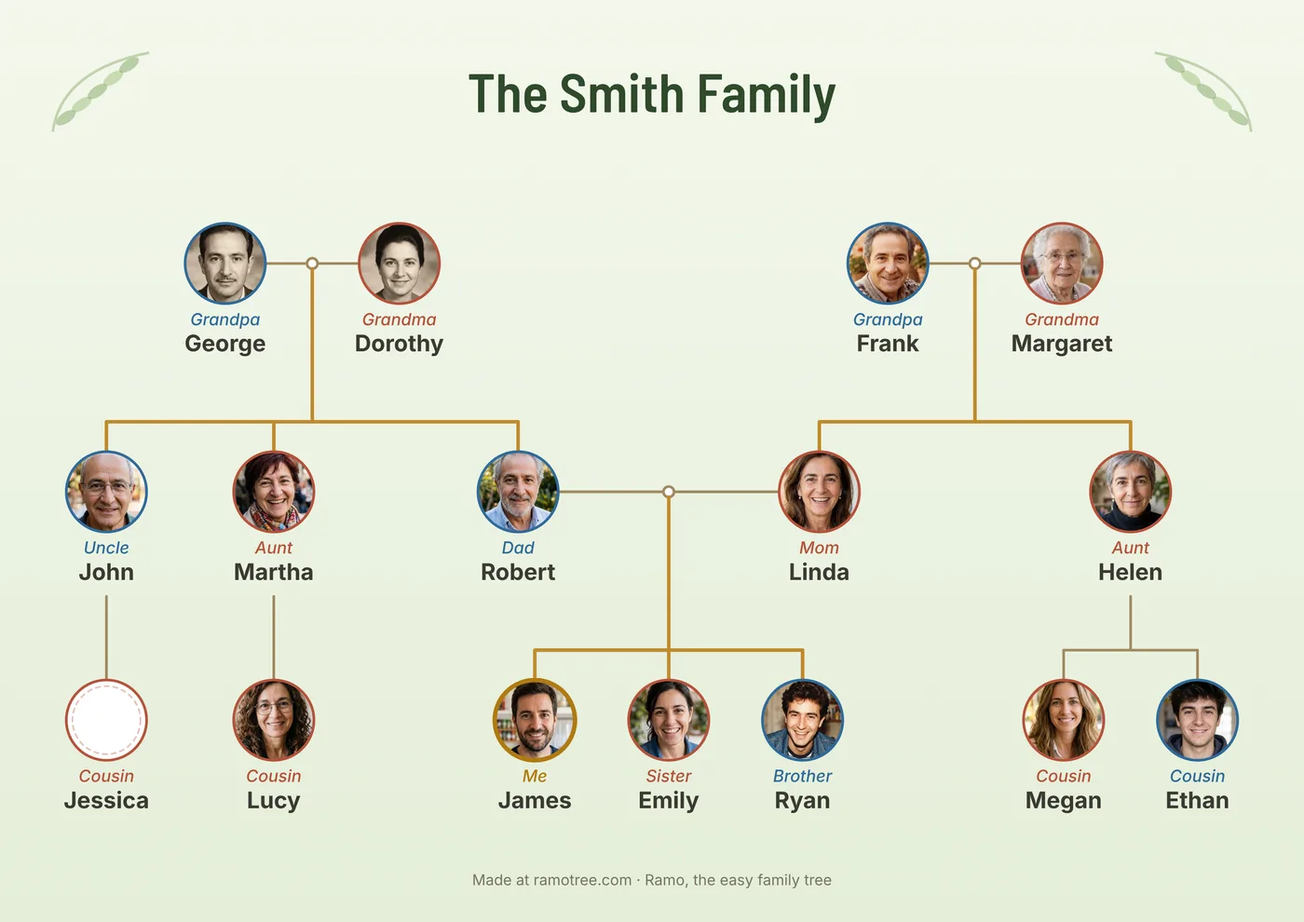
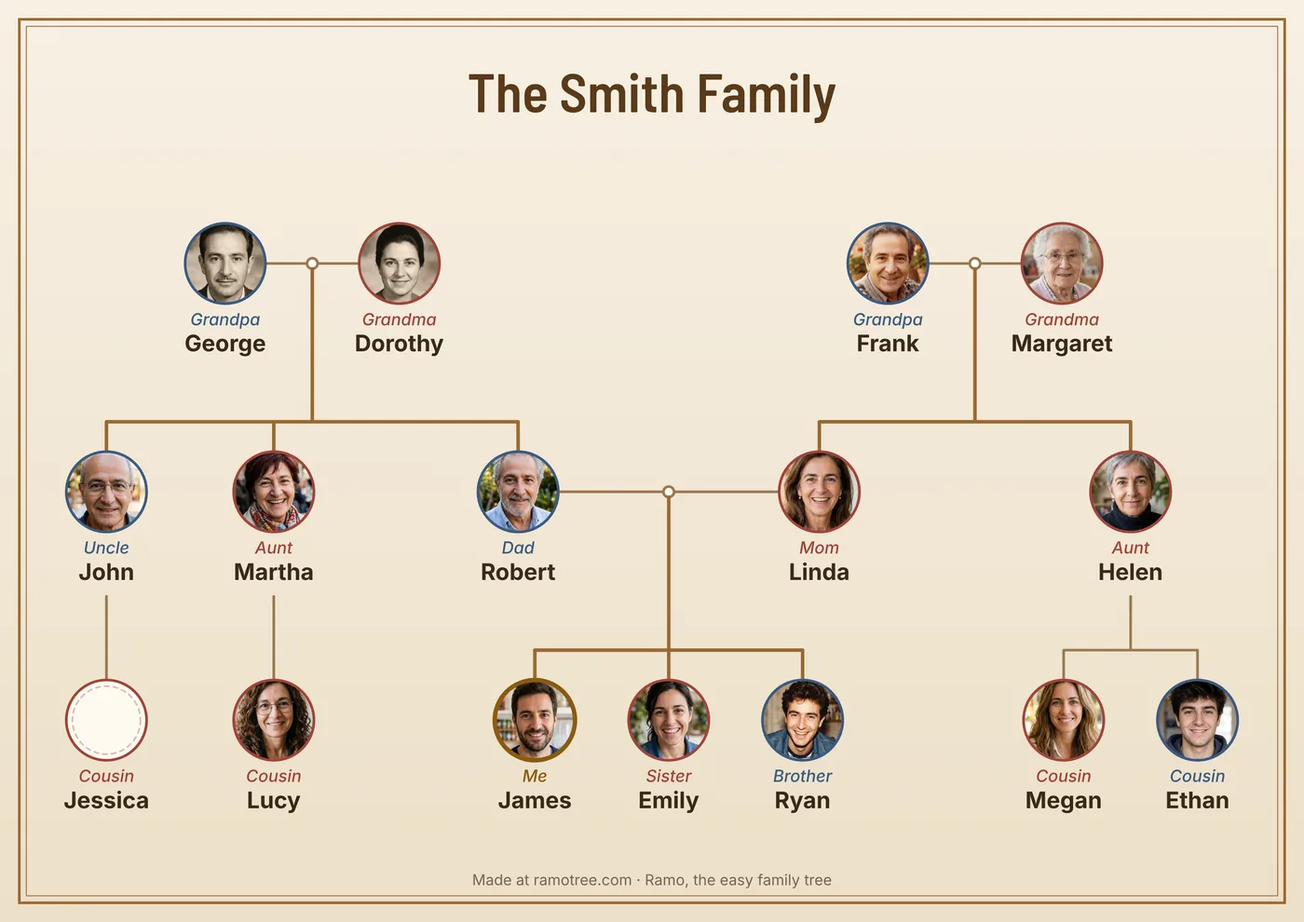
Guías: una imagen distinta para cada una
Claude-Session: https://claude.ai/code/session_01V21Rc2QJLpoacei9S9Cqnt

diff --git a/fr/arbre-genealogique-enfant/index.html b/fr/arbre-genealogique-enfant/index.html
@@ -31,7 +31,7 @@
 <link rel="apple-touch-icon" href="../../img/icono-192.png">
 <link rel="preload" href="../../fuentes/titulos.woff2" as="font" type="font/woff2" crossorigin>
 <link rel="stylesheet" href="../../estilo.css?v=83f1b3a0">
-<script type="application/ld+json">[{"@context": "https://schema.org", "@type": "Article", "headline": "Arbre généalogique pour enfants : comment le faire pour l'école", "description": "Comment faire avec votre enfant l'arbre généalogique demandé à l'école : modèle gratuit à imprimer, idées avec photos et dessins, et la famille en anglais.", "inLanguage": "fr", "datePublished": "2026-11-16", "dateModified": "2026-11-16", "image": "https://ramotree.com/img/fr/creador-colores.webp", "author": {"@type": "Organization", "name": "Ramo", "url": "https://ramotree.com/fr/"}, "publisher": {"@type": "Organization", "name": "Ramo", "logo": {"@type": "ImageObject", "url": "https://ramotree.com/img/icono-512.png"}}, "mainEntityOfPage": "https://ramotree.com/fr/arbre-genealogique-enfant/"}, {"@context": "https://schema.org", "@type": "BreadcrumbList", "itemListElement": [{"@type": "ListItem", "position": 1, "name": "Ramo", "item": "https://ramotree.com/fr/"}, {"@type": "ListItem", "position": 2, "name": "Arbre généalogique pour enfants", "item": "https://ramotree.com/fr/arbre-genealogique-enfant/"}]}]</script>
+<script type="application/ld+json">[{"@context": "https://schema.org", "@type": "Article", "headline": "Arbre généalogique pour enfants : comment le faire pour l'école", "description": "Comment faire avec votre enfant l'arbre généalogique demandé à l'école : modèle gratuit à imprimer, idées avec photos et dessins, et la famille en anglais.", "inLanguage": "fr", "datePublished": "2026-11-16", "dateModified": "2026-11-16", "image": "https://ramotree.com/img/fr/creador-ninos.webp", "author": {"@type": "Organization", "name": "Ramo", "url": "https://ramotree.com/fr/"}, "publisher": {"@type": "Organization", "name": "Ramo", "logo": {"@type": "ImageObject", "url": "https://ramotree.com/img/icono-512.png"}}, "mainEntityOfPage": "https://ramotree.com/fr/arbre-genealogique-enfant/"}, {"@context": "https://schema.org", "@type": "BreadcrumbList", "itemListElement": [{"@type": "ListItem", "position": 1, "name": "Ramo", "item": "https://ramotree.com/fr/"}, {"@type": "ListItem", "position": 2, "name": "Arbre généalogique pour enfants", "item": "https://ramotree.com/fr/arbre-genealogique-enfant/"}]}]</script>
 </head>
 <body>
 <header class="arriba">
@@ -48,7 +48,7 @@
 <p class="entrada">« Il faut apporter l'arbre généalogique demain. » Si ça vous dit quelque chose, voici un modèle gratuit à imprimer, des idées pour qu'il soit joli et comment le faire avec votre enfant sans stress.</p>
 <p class="consejo">C'est fait en quelques minutes : <a href="../../fr/creer-arbre-genealogique-en-ligne/">créez votre arbre ici</a>,
 avec les prénoms et les photos de chacun ou des places pour dessiner, et téléchargez-le pour l'imprimer.</p>
-<figure class="ancha"><img src="../../img/fr/creador-colores.webp" width="1400" height="990" alt="Arbre généalogique pour enfants fait avec le créateur de Ramo, style en couleurs" loading="lazy" decoding="async"><figcaption>Style « En couleurs », avec des places pour dessiner ceux qui n'ont pas de photo.</figcaption></figure>
+<figure class="ancha"><img src="../../img/fr/creador-ninos.webp" width="1400" height="990" alt="Arbre généalogique pour enfants fait avec le créateur de Ramo, style espace" loading="lazy" decoding="async"><figcaption>Style « Espace », avec des places pour dessiner ceux qui n'ont pas de photo.</figcaption></figure>
 
 <h2>Ce que l'école demande en général</h2>
 <p>En maternelle et en primaire, c'est souvent un arbre de trois générations : l'enfant, ses parents et ses grands-parents,

diff --git a/es/como-hacer-un-arbol-genealogico/index.html b/es/como-hacer-un-arbol-genealogico/index.html
@@ -31,7 +31,7 @@
 <link rel="apple-touch-icon" href="../../img/icono-192.png">
 <link rel="preload" href="../../fuentes/titulos.woff2" as="font" type="font/woff2" crossorigin>
 <link rel="stylesheet" href="../../estilo.css?v=83f1b3a0">
-<script type="application/ld+json">[{"@context": "https://schema.org", "@type": "Article", "headline": "Cómo hacer un árbol genealógico paso a paso", "description": "Cómo hacer el árbol genealógico de tu familia paso a paso: qué preguntar, dónde buscar los datos y cómo ordenarlo. Con plantilla gratis en PDF para imprimir.", "inLanguage": "es", "datePublished": "2026-11-16", "dateModified": "2026-11-16", "image": "https://ramotree.com/img/es/creador.webp", "author": {"@type": "Organization", "name": "Ramo", "url": "https://ramotree.com/es/"}, "publisher": {"@type": "Organization", "name": "Ramo", "logo": {"@type": "ImageObject", "url": "https://ramotree.com/img/icono-512.png"}}, "mainEntityOfPage": "https://ramotree.com/es/como-hacer-un-arbol-genealogico/"}, {"@context": "https://schema.org", "@type": "BreadcrumbList", "itemListElement": [{"@type": "ListItem", "position": 1, "name": "Ramo", "item": "https://ramotree.com/es/"}, {"@type": "ListItem", "position": 2, "name": "Cómo hacer un árbol genealógico", "item": "https://ramotree.com/es/como-hacer-un-arbol-genealogico/"}]}]</script>
+<script type="application/ld+json">[{"@context": "https://schema.org", "@type": "Article", "headline": "Cómo hacer un árbol genealógico paso a paso", "description": "Cómo hacer el árbol genealógico de tu familia paso a paso: qué preguntar, dónde buscar los datos y cómo ordenarlo. Con plantilla gratis en PDF para imprimir.", "inLanguage": "es", "datePublished": "2026-11-16", "dateModified": "2026-11-16", "image": "https://ramotree.com/img/es/hacer.webp", "author": {"@type": "Organization", "name": "Ramo", "url": "https://ramotree.com/es/"}, "publisher": {"@type": "Organization", "name": "Ramo", "logo": {"@type": "ImageObject", "url": "https://ramotree.com/img/icono-512.png"}}, "mainEntityOfPage": "https://ramotree.com/es/como-hacer-un-arbol-genealogico/"}, {"@context": "https://schema.org", "@type": "BreadcrumbList", "itemListElement": [{"@type": "ListItem", "position": 1, "name": "Ramo", "item": "https://ramotree.com/es/"}, {"@type": "ListItem", "position": 2, "name": "Cómo hacer un árbol genealógico", "item": "https://ramotree.com/es/como-hacer-un-arbol-genealogico/"}]}]</script>
 </head>
 <body>
 <header class="arriba">
@@ -48,7 +48,7 @@
 <p class="entrada">Hacer el árbol de tu familia es más fácil de lo que parece: empieza por lo que ya sabes, pregunta a los mayores mientras puedas y ve completándolo poco a poco. Aquí tienes los pasos y una plantilla gratis para imprimir.</p>
 <p class="consejo">¿Quieres empezar ya? <a href="../../es/plantilla-arbol-genealogico/">Crea tu árbol aquí mismo</a>: pon a tus
 abuelos, padres, tíos, primos y hermanos, con fotos si quieres, y descárgalo en PDF o como imagen.</p>
-<figure class="ancha"><img src="../../img/es/creador.webp" width="1400" height="990" alt="Árbol genealógico hecho con el creador de Ramo: abuelos, padres, tíos, primos y hermanos con sus fotos" loading="lazy" decoding="async"><figcaption>Hecho con el creador de árboles de esta web, en el estilo Jardín.</figcaption></figure>
+<figure class="ancha"><img src="../../img/es/creador.webp" width="1400" height="990" alt="Árbol genealógico hecho con el creador de Ramo: abuelos, padres, tíos, primos y hermanos con sus fotos" loading="lazy" decoding="async"><figcaption>Hecho con el creador de árboles de esta web, en el estilo Álbum.</figcaption></figure>
 
 <h2>1. Empieza por ti</h2>
 <p>Apunta tu nombre, cuándo y dónde naciste. Después, tus padres y tus hermanos, y luego tus abuelos. Escribe todo lo que

diff --git a/pt/arvore-genealogica-para-criancas/index.html b/pt/arvore-genealogica-para-criancas/index.html
@@ -31,7 +31,7 @@
 <link rel="apple-touch-icon" href="../../img/icono-192.png">
 <link rel="preload" href="../../fuentes/titulos.woff2" as="font" type="font/woff2" crossorigin>
 <link rel="stylesheet" href="../../estilo.css?v=83f1b3a0">
-<script type="application/ld+json">[{"@context": "https://schema.org", "@type": "Article", "headline": "Árvore genealógica para crianças: como fazer o trabalho da escola", "description": "Como fazer com seu filho a árvore genealógica que a escola pede: modelo grátis para imprimir, ideias com fotos e desenhos e a família em inglês.", "inLanguage": "pt-BR", "datePublished": "2026-11-16", "dateModified": "2026-11-16", "image": "https://ramotree.com/img/pt/creador-colores.webp", "author": {"@type": "Organization", "name": "Ramo", "url": "https://ramotree.com/pt/"}, "publisher": {"@type": "Organization", "name": "Ramo", "logo": {"@type": "ImageObject", "url": "https://ramotree.com/img/icono-512.png"}}, "mainEntityOfPage": "https://ramotree.com/pt/arvore-genealogica-para-criancas/"}, {"@context": "https://schema.org", "@type": "BreadcrumbList", "itemListElement": [{"@type": "ListItem", "position": 1, "name": "Ramo", "item": "https://ramotree.com/pt/"}, {"@type": "ListItem", "position": 2, "name": "Árvore genealógica para crianças", "item": "https://ramotree.com/pt/arvore-genealogica-para-criancas/"}]}]</script>
+<script type="application/ld+json">[{"@context": "https://schema.org", "@type": "Article", "headline": "Árvore genealógica para crianças: como fazer o trabalho da escola", "description": "Como fazer com seu filho a árvore genealógica que a escola pede: modelo grátis para imprimir, ideias com fotos e desenhos e a família em inglês.", "inLanguage": "pt-BR", "datePublished": "2026-11-16", "dateModified": "2026-11-16", "image": "https://ramotree.com/img/pt/creador-ninos.webp", "author": {"@type": "Organization", "name": "Ramo", "url": "https://ramotree.com/pt/"}, "publisher": {"@type": "Organization", "name": "Ramo", "logo": {"@type": "ImageObject", "url": "https://ramotree.com/img/icono-512.png"}}, "mainEntityOfPage": "https://ramotree.com/pt/arvore-genealogica-para-criancas/"}, {"@context": "https://schema.org", "@type": "BreadcrumbList", "itemListElement": [{"@type": "ListItem", "position": 1, "name": "Ramo", "item": "https://ramotree.com/pt/"}, {"@type": "ListItem", "position": 2, "name": "Árvore genealógica para crianças", "item": "https://ramotree.com/pt/arvore-genealogica-para-criancas/"}]}]</script>
 </head>
 <body>
 <header class="arriba">
@@ -48,7 +48,7 @@
 <p class="entrada">“Amanhã tem que levar a árvore genealógica.” Se isso soa familiar, aqui está um modelo grátis para imprimir, ideias para ficar bonita e como fazer com seu filho sem estresse.</p>
 <p class="consejo">Fica pronta em minutos: <a href="../../pt/criar-arvore-genealogica-online/">crie a árvore de vocês aqui</a>, com os
 nomes e as fotos de cada um ou com espaços para desenhar, e baixe para imprimir.</p>
-<figure class="ancha"><img src="../../img/pt/creador-colores.webp" width="1400" height="990" alt="Árvore genealógica para crianças feita com o criador do Ramo, no estilo colorido" loading="lazy" decoding="async"><figcaption>No estilo “Colorido”, com espaços para desenhar quem não tem foto.</figcaption></figure>
+<figure class="ancha"><img src="../../img/pt/creador-ninos.webp" width="1400" height="990" alt="Árvore genealógica para crianças feita com o criador do Ramo, no estilo espaço" loading="lazy" decoding="async"><figcaption>No estilo “Espaço”, com espaços para desenhar quem não tem foto.</figcaption></figure>
 
 <h2>O que a escola costuma pedir</h2>
 <p>Na educação infantil e nos primeiros anos, o normal é uma árvore de três gerações: a criança, os pais e os avós, com uma

diff --git a/pt/como-fazer-arvore-genealogica/index.html b/pt/como-fazer-arvore-genealogica/index.html
@@ -31,7 +31,7 @@
 <link rel="apple-touch-icon" href="../../img/icono-192.png">
 <link rel="preload" href="../../fuentes/titulos.woff2" as="font" type="font/woff2" crossorigin>
 <link rel="stylesheet" href="../../estilo.css?v=83f1b3a0">
-<script type="application/ld+json">[{"@context": "https://schema.org", "@type": "Article", "headline": "Como fazer uma árvore genealógica, passo a passo", "description": "Como fazer a árvore genealógica da sua família passo a passo: o que perguntar, onde procurar e como organizar. Com modelo grátis em PDF para imprimir.", "inLanguage": "pt-BR", "datePublished": "2026-11-16", "dateModified": "2026-11-16", "image": "https://ramotree.com/img/pt/creador.webp", "author": {"@type": "Organization", "name": "Ramo", "url": "https://ramotree.com/pt/"}, "publisher": {"@type": "Organization", "name": "Ramo", "logo": {"@type": "ImageObject", "url": "https://ramotree.com/img/icono-512.png"}}, "mainEntityOfPage": "https://ramotree.com/pt/como-fazer-arvore-genealogica/"}, {"@context": "https://schema.org", "@type": "BreadcrumbList", "itemListElement": [{"@type": "ListItem", "position": 1, "name": "Ramo", "item": "https://ramotree.com/pt/"}, {"@type": "ListItem", "position": 2, "name": "Como fazer uma árvore genealógica", "item": "https://ramotree.com/pt/como-fazer-arvore-genealogica/"}]}]</script>
+<script type="application/ld+json">[{"@context": "https://schema.org", "@type": "Article", "headline": "Como fazer uma árvore genealógica, passo a passo", "description": "Como fazer a árvore genealógica da sua família passo a passo: o que perguntar, onde procurar e como organizar. Com modelo grátis em PDF para imprimir.", "inLanguage": "pt-BR", "datePublished": "2026-11-16", "dateModified": "2026-11-16", "image": "https://ramotree.com/img/pt/hacer.webp", "author": {"@type": "Organization", "name": "Ramo", "url": "https://ramotree.com/pt/"}, "publisher": {"@type": "Organization", "name": "Ramo", "logo": {"@type": "ImageObject", "url": "https://ramotree.com/img/icono-512.png"}}, "mainEntityOfPage": "https://ramotree.com/pt/como-fazer-arvore-genealogica/"}, {"@context": "https://schema.org", "@type": "BreadcrumbList", "itemListElement": [{"@type": "ListItem", "position": 1, "name": "Ramo", "item": "https://ramotree.com/pt/"}, {"@type": "ListItem", "position": 2, "name": "Como fazer uma árvore genealógica", "item": "https://ramotree.com/pt/como-fazer-arvore-genealogica/"}]}]</script>
 </head>
 <body>
 <header class="arriba">
@@ -48,7 +48,7 @@
 <p class="entrada">Fazer a árvore da sua família é mais fácil do que parece: comece pelo que você já sabe, pergunte aos mais velhos enquanto pode e vá completando aos poucos. Aqui estão os passos e um modelo grátis para imprimir.</p>
 <p class="consejo">Quer começar agora? <a href="../../pt/criar-arvore-genealogica-online/">Crie sua árvore aqui mesmo</a>: avós, pais,
 tios, primos e irmãos, com fotos se quiser, e baixe em PDF ou como imagem.</p>
-<figure class="ancha"><img src="../../img/pt/creador.webp" width="1400" height="990" alt="Árvore genealógica feita com o criador de árvores do Ramo: avós, pais, tios, primos e irmãos com fotos" loading="lazy" decoding="async"><figcaption>Feita com o criador de árvores deste site, no estilo Jardim.</figcaption></figure>
+<figure class="ancha"><img src="../../img/pt/creador.webp" width="1400" height="990" alt="Árvore genealógica feita com o criador de árvores do Ramo: avós, pais, tios, primos e irmãos com fotos" loading="lazy" decoding="async"><figcaption>Feita com o criador de árvores deste site, no estilo Álbum.</figcaption></figure>
 
 <h2>1. Comece por você</h2>
 <p>Anote o seu nome, quando e onde você nasceu. Depois seus pais e irmãos, e então seus avós. Escreva tudo o que sabe de

diff --git a/de/stammbaum-erstellen/index.html b/de/stammbaum-erstellen/index.html
@@ -31,7 +31,7 @@
 <link rel="apple-touch-icon" href="../../img/icono-192.png">
 <link rel="preload" href="../../fuentes/titulos.woff2" as="font" type="font/woff2" crossorigin>
 <link rel="stylesheet" href="../../estilo.css?v=83f1b3a0">
-<script type="application/ld+json">[{"@context": "https://schema.org", "@type": "Article", "headline": "Stammbaum erstellen, Schritt für Schritt", "description": "So erstellst du den Stammbaum deiner Familie Schritt für Schritt: was du fragen solltest, wo du suchst und wie du ihn ordnest. Mit kostenloser Vorlage als PDF.", "inLanguage": "de", "datePublished": "2026-11-16", "dateModified": "2026-11-16", "image": "https://ramotree.com/img/de/creador.webp", "author": {"@type": "Organization", "name": "Ramo", "url": "https://ramotree.com/de/"}, "publisher": {"@type": "Organization", "name": "Ramo", "logo": {"@type": "ImageObject", "url": "https://ramotree.com/img/icono-512.png"}}, "mainEntityOfPage": "https://ramotree.com/de/stammbaum-erstellen/"}, {"@context": "https://schema.org", "@type": "BreadcrumbList", "itemListElement": [{"@type": "ListItem", "position": 1, "name": "Ramo", "item": "https://ramotree.com/de/"}, {"@type": "ListItem", "position": 2, "name": "Stammbaum erstellen", "item": "https://ramotree.com/de/stammbaum-erstellen/"}]}]</script>
+<script type="application/ld+json">[{"@context": "https://schema.org", "@type": "Article", "headline": "Stammbaum erstellen, Schritt für Schritt", "description": "So erstellst du den Stammbaum deiner Familie Schritt für Schritt: was du fragen solltest, wo du suchst und wie du ihn ordnest. Mit kostenloser Vorlage als PDF.", "inLanguage": "de", "datePublished": "2026-11-16", "dateModified": "2026-11-16", "image": "https://ramotree.com/img/de/hacer.webp", "author": {"@type": "Organization", "name": "Ramo", "url": "https://ramotree.com/de/"}, "publisher": {"@type": "Organization", "name": "Ramo", "logo": {"@type": "ImageObject", "url": "https://ramotree.com/img/icono-512.png"}}, "mainEntityOfPage": "https://ramotree.com/de/stammbaum-erstellen/"}, {"@context": "https://schema.org", "@type": "BreadcrumbList", "itemListElement": [{"@type": "ListItem", "position": 1, "name": "Ramo", "item": "https://ramotree.com/de/"}, {"@type": "ListItem", "position": 2, "name": "Stammbaum erstellen", "item": "https://ramotree.com/de/stammbaum-erstellen/"}]}]</script>
 </head>
 <body>
 <header class="arriba">
@@ -48,7 +48,7 @@
 <p class="entrada">Einen Stammbaum zu erstellen ist leichter, als es aussieht: Fang mit dem an, was du schon weißt, frag die Älteren, solange es geht, und ergänze ihn nach und nach. Hier sind die Schritte und eine kostenlose Vorlage zum Ausdrucken.</p>
 <p class="consejo">Willst du gleich anfangen? <a href="../../de/stammbaum-online-erstellen/">Erstelle deinen Stammbaum direkt
 hier</a>: Großeltern, Eltern, Onkel, Cousins und Geschwister, auf Wunsch mit Fotos, und lade ihn als PDF oder Bild herunter.</p>
-<figure class="ancha"><img src="../../img/de/creador.webp" width="1400" height="990" alt="Stammbaum, erstellt mit dem Stammbaum-Ersteller von Ramo: Großeltern, Eltern, Onkel, Cousins und Geschwister mit Fotos" loading="lazy" decoding="async"><figcaption>Erstellt mit dem Stammbaum-Ersteller dieser Seite, im Stil Garten.</figcaption></figure>
+<figure class="ancha"><img src="../../img/de/creador.webp" width="1400" height="990" alt="Stammbaum, erstellt mit dem Stammbaum-Ersteller von Ramo: Großeltern, Eltern, Onkel, Cousins und Geschwister mit Fotos" loading="lazy" decoding="async"><figcaption>Erstellt mit dem Stammbaum-Ersteller dieser Seite, im Stil Album.</figcaption></figure>
 
 <h2>1. Fang bei dir an</h2>
 <p>Schreib deinen Namen auf und wann und wo du geboren bist. Dann deine Eltern und Geschwister, danach deine Großeltern.

diff --git a/es/arbol-genealogico-para-ninos/index.html b/es/arbol-genealogico-para-ninos/index.html
@@ -31,7 +31,7 @@
 <link rel="apple-touch-icon" href="../../img/icono-192.png">
 <link rel="preload" href="../../fuentes/titulos.woff2" as="font" type="font/woff2" crossorigin>
 <link rel="stylesheet" href="../../estilo.css?v=83f1b3a0">
-<script type="application/ld+json">[{"@context": "https://schema.org", "@type": "Article", "headline": "Árbol genealógico para niños: cómo hacerlo para el colegio", "description": "Cómo hacer con tu hijo el árbol genealógico que piden en el colegio: plantilla gratis para imprimir, ideas con fotos y dibujos, y la familia en inglés.", "inLanguage": "es", "datePublished": "2026-11-16", "dateModified": "2026-11-16", "image": "https://ramotree.com/img/es/creador-colores.webp", "author": {"@type": "Organization", "name": "Ramo", "url": "https://ramotree.com/es/"}, "publisher": {"@type": "Organization", "name": "Ramo", "logo": {"@type": "ImageObject", "url": "https://ramotree.com/img/icono-512.png"}}, "mainEntityOfPage": "https://ramotree.com/es/arbol-genealogico-para-ninos/"}, {"@context": "https://schema.org", "@type": "BreadcrumbList", "itemListElement": [{"@type": "ListItem", "position": 1, "name": "Ramo", "item": "https://ramotree.com/es/"}, {"@type": "ListItem", "position": 2, "name": "Árbol genealógico para niños", "item": "https://ramotree.com/es/arbol-genealogico-para-ninos/"}]}]</script>
+<script type="application/ld+json">[{"@context": "https://schema.org", "@type": "Article", "headline": "Árbol genealógico para niños: cómo hacerlo para el colegio", "description": "Cómo hacer con tu hijo el árbol genealógico que piden en el colegio: plantilla gratis para imprimir, ideas con fotos y dibujos, y la familia en inglés.", "inLanguage": "es", "datePublished": "2026-11-16", "dateModified": "2026-11-16", "image": "https://ramotree.com/img/es/creador-ninos.webp", "author": {"@type": "Organization", "name": "Ramo", "url": "https://ramotree.com/es/"}, "publisher": {"@type": "Organization", "name": "Ramo", "logo": {"@type": "ImageObject", "url": "https://ramotree.com/img/icono-512.png"}}, "mainEntityOfPage": "https://ramotree.com/es/arbol-genealogico-para-ninos/"}, {"@context": "https://schema.org", "@type": "BreadcrumbList", "itemListElement": [{"@type": "ListItem", "position": 1, "name": "Ramo", "item": "https://ramotree.com/es/"}, {"@type": "ListItem", "position": 2, "name": "Árbol genealógico para niños", "item": "https://ramotree.com/es/arbol-genealogico-para-ninos/"}]}]</script>
 </head>
 <body>
 <header class="arriba">
@@ -48,7 +48,7 @@
 <p class="entrada">«Mañana hay que llevar el árbol genealógico.» Si te suena, aquí tienes una plantilla gratis para imprimir, ideas para que quede bonito y cómo hacerlo con tu hijo sin agobios.</p>
 <p class="consejo">Hazlo en un momento: <a href="../../es/plantilla-arbol-genealogico/">crea vuestro árbol aquí</a>, con los
 nombres y las fotos de cada uno o con huecos para dibujar, y descárgalo para imprimir.</p>
-<figure class="ancha"><img src="../../img/es/creador-colores.webp" width="1400" height="990" alt="Árbol genealógico para niños hecho con el creador de Ramo, en el estilo de colores" loading="lazy" decoding="async"><figcaption>En el estilo «De colores», con huecos para dibujar a quien no tenga foto.</figcaption></figure>
+<figure class="ancha"><img src="../../img/es/creador-ninos.webp" width="1400" height="990" alt="Árbol genealógico para niños hecho con el creador de Ramo, en el estilo del espacio" loading="lazy" decoding="async"><figcaption>En el estilo «Espacio», con huecos para dibujar a quien no tenga foto.</figcaption></figure>
 
 <h2>Qué suelen pedir en el colegio</h2>
 <p>En infantil y primaria lo normal es un árbol de tres generaciones: el niño, sus padres y sus abuelos, con una foto o un

diff --git a/it/come-fare-albero-genealogico/index.html b/it/come-fare-albero-genealogico/index.html
@@ -31,7 +31,7 @@
 <link rel="apple-touch-icon" href="../../img/icono-192.png">
 <link rel="preload" href="../../fuentes/titulos.woff2" as="font" type="font/woff2" crossorigin>
 <link rel="stylesheet" href="../../estilo.css?v=83f1b3a0">
-<script type="application/ld+json">[{"@context": "https://schema.org", "@type": "Article", "headline": "Come fare un albero genealogico, passo dopo passo", "description": "Come fare l'albero genealogico della tua famiglia passo dopo passo: cosa chiedere, dove cercare e come ordinarlo. Con un modello gratis da stampare in PDF.", "inLanguage": "it", "datePublished": "2026-11-16", "dateModified": "2026-11-16", "image": "https://ramotree.com/img/it/creador.webp", "author": {"@type": "Organization", "name": "Ramo", "url": "https://ramotree.com/it/"}, "publisher": {"@type": "Organization", "name": "Ramo", "logo": {"@type": "ImageObject", "url": "https://ramotree.com/img/icono-512.png"}}, "mainEntityOfPage": "https://ramotree.com/it/come-fare-albero-genealogico/"}, {"@context": "https://schema.org", "@type": "BreadcrumbList", "itemListElement": [{"@type": "ListItem", "position": 1, "name": "Ramo", "item": "https://ramotree.com/it/"}, {"@type": "ListItem", "position": 2, "name": "Come fare un albero genealogico", "item": "https://ramotree.com/it/come-fare-albero-genealogico/"}]}]</script>
+<script type="application/ld+json">[{"@context": "https://schema.org", "@type": "Article", "headline": "Come fare un albero genealogico, passo dopo passo", "description": "Come fare l'albero genealogico della tua famiglia passo dopo passo: cosa chiedere, dove cercare e come ordinarlo. Con un modello gratis da stampare in PDF.", "inLanguage": "it", "datePublished": "2026-11-16", "dateModified": "2026-11-16", "image": "https://ramotree.com/img/it/hacer.webp", "author": {"@type": "Organization", "name": "Ramo", "url": "https://ramotree.com/it/"}, "publisher": {"@type": "Organization", "name": "Ramo", "logo": {"@type": "ImageObject", "url": "https://ramotree.com/img/icono-512.png"}}, "mainEntityOfPage": "https://ramotree.com/it/come-fare-albero-genealogico/"}, {"@context": "https://schema.org", "@type": "BreadcrumbList", "itemListElement": [{"@type": "ListItem", "position": 1, "name": "Ramo", "item": "https://ramotree.com/it/"}, {"@type": "ListItem", "position": 2, "name": "Come fare un albero genealogico", "item": "https://ramotree.com/it/come-fare-albero-genealogico/"}]}]</script>
 </head>
 <body>
 <header class="arriba">
@@ -48,7 +48,7 @@
 <p class="entrada">Fare l'albero della tua famiglia è più facile di quanto sembri: parti da quello che sai già, chiedi ai più anziani finché puoi e completalo un po' alla volta. Ecco i passi e un modello gratis da stampare.</p>
 <p class="consejo">Vuoi iniziare subito? <a href="../../it/crea-albero-genealogico-online/">Crea il tuo albero qui</a>: nonni,
 genitori, zii, cugini e fratelli, con le foto se vuoi, e scaricalo in PDF o come immagine.</p>
-<figure class="ancha"><img src="../../img/it/creador.webp" width="1400" height="990" alt="Albero genealogico fatto con il creatore di alberi di Ramo: nonni, genitori, zii, cugini e fratelli con le foto" loading="lazy" decoding="async"><figcaption>Fatto con il creatore di alberi di questo sito, stile Giardino.</figcaption></figure>
+<figure class="ancha"><img src="../../img/it/creador.webp" width="1400" height="990" alt="Albero genealogico fatto con il creatore di alberi di Ramo: nonni, genitori, zii, cugini e fratelli con le foto" loading="lazy" decoding="async"><figcaption>Fatto con il creatore di alberi di questo sito, stile Album.</figcaption></figure>
 
 <h2>1. Parti da te</h2>
 <p>Scrivi il tuo nome, quando e dove sei nato. Poi i tuoi genitori e i tuoi fratelli, e poi i nonni. Annota tutto quello che

diff --git a/en/how-to-make-a-family-tree/index.html b/en/how-to-make-a-family-tree/index.html
@@ -31,7 +31,7 @@
 <link rel="apple-touch-icon" href="../../img/icono-192.png">
 <link rel="preload" href="../../fuentes/titulos.woff2" as="font" type="font/woff2" crossorigin>
 <link rel="stylesheet" href="../../estilo.css?v=83f1b3a0">
-<script type="application/ld+json">[{"@context": "https://schema.org", "@type": "Article", "headline": "How to make a family tree, step by step", "description": "How to make your family tree step by step: what to ask, where to find records and how to organize it. With a free printable PDF family tree template.", "inLanguage": "en", "datePublished": "2026-11-16", "dateModified": "2026-11-16", "image": "https://ramotree.com/img/en/creador.webp", "author": {"@type": "Organization", "name": "Ramo", "url": "https://ramotree.com/en/"}, "publisher": {"@type": "Organization", "name": "Ramo", "logo": {"@type": "ImageObject", "url": "https://ramotree.com/img/icono-512.png"}}, "mainEntityOfPage": "https://ramotree.com/en/how-to-make-a-family-tree/"}, {"@context": "https://schema.org", "@type": "BreadcrumbList", "itemListElement": [{"@type": "ListItem", "position": 1, "name": "Ramo", "item": "https://ramotree.com/en/"}, {"@type": "ListItem", "position": 2, "name": "How to make a family tree", "item": "https://ramotree.com/en/how-to-make-a-family-tree/"}]}]</script>
+<script type="application/ld+json">[{"@context": "https://schema.org", "@type": "Article", "headline": "How to make a family tree, step by step", "description": "How to make your family tree step by step: what to ask, where to find records and how to organize it. With a free printable PDF family tree template.", "inLanguage": "en", "datePublished": "2026-11-16", "dateModified": "2026-11-16", "image": "https://ramotree.com/img/en/hacer.webp", "author": {"@type": "Organization", "name": "Ramo", "url": "https://ramotree.com/en/"}, "publisher": {"@type": "Organization", "name": "Ramo", "logo": {"@type": "ImageObject", "url": "https://ramotree.com/img/icono-512.png"}}, "mainEntityOfPage": "https://ramotree.com/en/how-to-make-a-family-tree/"}, {"@context": "https://schema.org", "@type": "BreadcrumbList", "itemListElement": [{"@type": "ListItem", "position": 1, "name": "Ramo", "item": "https://ramotree.com/en/"}, {"@type": "ListItem", "position": 2, "name": "How to make a family tree", "item": "https://ramotree.com/en/how-to-make-a-family-tree/"}]}]</script>
 </head>
 <body>
 <header class="arriba">
@@ -48,7 +48,7 @@
 <p class="entrada">Making your family tree is easier than it looks: start with what you already know, ask the older generation while you can, and fill it in bit by bit. Here are the steps and a free template to print.</p>
 <p class="consejo">Want to start right away? <a href="../../en/family-tree-maker/">Make your tree right here</a>: add your
 grandparents, parents, aunts, uncles, cousins and siblings, with photos if you like, and download it as a PDF or image.</p>
-<figure class="ancha"><img src="../../img/en/creador.webp" width="1400" height="990" alt="Family tree made with Ramo&#x27;s family tree maker: grandparents, parents, aunts, uncles, cousins and siblings with photos" loading="lazy" decoding="async"><figcaption>Made with the family tree maker on this site, in the Garden style.</figcaption></figure>
+<figure class="ancha"><img src="../../img/en/creador.webp" width="1400" height="990" alt="Family tree made with Ramo&#x27;s family tree maker: grandparents, parents, aunts, uncles, cousins and siblings with photos" loading="lazy" decoding="async"><figcaption>Made with the family tree maker on this site, in the Album style.</figcaption></figure>
 
 <h2>1. Start with yourself</h2>
 <p>Write down your name and when and where you were born. Then your parents and siblings, and then your grandparents. Put

diff --git a/fr/comment-faire-un-arbre-genealogique/index.html b/fr/comment-faire-un-arbre-genealogique/index.html
@@ -31,7 +31,7 @@
 <link rel="apple-touch-icon" href="../../img/icono-192.png">
 <link rel="preload" href="../../fuentes/titulos.woff2" as="font" type="font/woff2" crossorigin>
 <link rel="stylesheet" href="../../estilo.css?v=83f1b3a0">
-<script type="application/ld+json">[{"@context": "https://schema.org", "@type": "Article", "headline": "Comment faire un arbre généalogique, étape par étape", "description": "Comment faire l'arbre généalogique de votre famille étape par étape : quoi demander, où chercher et comment l'organiser. Avec un modèle gratuit à imprimer en PDF.", "inLanguage": "fr", "datePublished": "2026-11-16", "dateModified": "2026-11-16", "image": "https://ramotree.com/img/fr/creador.webp", "author": {"@type": "Organization", "name": "Ramo", "url": "https://ramotree.com/fr/"}, "publisher": {"@type": "Organization", "name": "Ramo", "logo": {"@type": "ImageObject", "url": "https://ramotree.com/img/icono-512.png"}}, "mainEntityOfPage": "https://ramotree.com/fr/comment-faire-un-arbre-genealogique/"}, {"@context": "https://schema.org", "@type": "BreadcrumbList", "itemListElement": [{"@type": "ListItem", "position": 1, "name": "Ramo", "item": "https://ramotree.com/fr/"}, {"@type": "ListItem", "position": 2, "name": "Faire un arbre généalogique", "item": "https://ramotree.com/fr/comment-faire-un-arbre-genealogique/"}]}]</script>
+<script type="application/ld+json">[{"@context": "https://schema.org", "@type": "Article", "headline": "Comment faire un arbre généalogique, étape par étape", "description": "Comment faire l'arbre généalogique de votre famille étape par étape : quoi demander, où chercher et comment l'organiser. Avec un modèle gratuit à imprimer en PDF.", "inLanguage": "fr", "datePublished": "2026-11-16", "dateModified": "2026-11-16", "image": "https://ramotree.com/img/fr/hacer.webp", "author": {"@type": "Organization", "name": "Ramo", "url": "https://ramotree.com/fr/"}, "publisher": {"@type": "Organization", "name": "Ramo", "logo": {"@type": "ImageObject", "url": "https://ramotree.com/img/icono-512.png"}}, "mainEntityOfPage": "https://ramotree.com/fr/comment-faire-un-arbre-genealogique/"}, {"@context": "https://schema.org", "@type": "BreadcrumbList", "itemListElement": [{"@type": "ListItem", "position": 1, "name": "Ramo", "item": "https://ramotree.com/fr/"}, {"@type": "ListItem", "position": 2, "name": "Faire un arbre généalogique", "item": "https://ramotree.com/fr/comment-faire-un-arbre-genealogique/"}]}]</script>
 </head>
 <body>
 <header class="arriba">
@@ -49,7 +49,7 @@
 <p class="consejo">Envie de commencer tout de suite ? <a href="../../fr/creer-arbre-genealogique-en-ligne/">Créez votre arbre ici
 même</a> : grands-parents, parents, oncles, cousins, frères et sœurs, avec photos si vous voulez, et téléchargez-le en PDF ou
 en image.</p>
-<figure class="ancha"><img src="../../img/fr/creador.webp" width="1400" height="990" alt="Arbre généalogique fait avec le créateur d&#x27;arbres de Ramo : grands-parents, parents, oncles, cousins, frères et sœurs avec leurs photos" loading="lazy" decoding="async"><figcaption>Fait avec le créateur d'arbres de ce site, style Jardin.</figcaption></figure>
+<figure class="ancha"><img src="../../img/fr/creador.webp" width="1400" height="990" alt="Arbre généalogique fait avec le créateur d&#x27;arbres de Ramo : grands-parents, parents, oncles, cousins, frères et sœurs avec leurs photos" loading="lazy" decoding="async"><figcaption>Fait avec le créateur d'arbres de ce site, style Album.</figcaption></figure>
 
 <h2>1. Commencez par vous</h2>
 <p>Notez votre nom, la date et le lieu de votre naissance. Puis vos parents et vos frères et sœurs, puis vos grands-parents.

diff --git a/it/albero-genealogico-per-bambini/index.html b/it/albero-genealogico-per-bambini/index.html
@@ -31,7 +31,7 @@
 <link rel="apple-touch-icon" href="../../img/icono-192.png">
 <link rel="preload" href="../../fuentes/titulos.woff2" as="font" type="font/woff2" crossorigin>
 <link rel="stylesheet" href="../../estilo.css?v=83f1b3a0">
-<script type="application/ld+json">[{"@context": "https://schema.org", "@type": "Article", "headline": "Albero genealogico per bambini: come farlo per la scuola", "description": "Come fare con tuo figlio l'albero genealogico per la scuola: modello gratis da stampare, idee con foto e disegni, e la famiglia in inglese.", "inLanguage": "it", "datePublished": "2026-11-16", "dateModified": "2026-11-16", "image": "https://ramotree.com/img/it/creador-colores.webp", "author": {"@type": "Organization", "name": "Ramo", "url": "https://ramotree.com/it/"}, "publisher": {"@type": "Organization", "name": "Ramo", "logo": {"@type": "ImageObject", "url": "https://ramotree.com/img/icono-512.png"}}, "mainEntityOfPage": "https://ramotree.com/it/albero-genealogico-per-bambini/"}, {"@context": "https://schema.org", "@type": "BreadcrumbList", "itemListElement": [{"@type": "ListItem", "position": 1, "name": "Ramo", "item": "https://ramotree.com/it/"}, {"@type": "ListItem", "position": 2, "name": "Albero genealogico per bambini", "item": "https://ramotree.com/it/albero-genealogico-per-bambini/"}]}]</script>
+<script type="application/ld+json">[{"@context": "https://schema.org", "@type": "Article", "headline": "Albero genealogico per bambini: come farlo per la scuola", "description": "Come fare con tuo figlio l'albero genealogico per la scuola: modello gratis da stampare, idee con foto e disegni, e la famiglia in inglese.", "inLanguage": "it", "datePublished": "2026-11-16", "dateModified": "2026-11-16", "image": "https://ramotree.com/img/it/creador-ninos.webp", "author": {"@type": "Organization", "name": "Ramo", "url": "https://ramotree.com/it/"}, "publisher": {"@type": "Organization", "name": "Ramo", "logo": {"@type": "ImageObject", "url": "https://ramotree.com/img/icono-512.png"}}, "mainEntityOfPage": "https://ramotree.com/it/albero-genealogico-per-bambini/"}, {"@context": "https://schema.org", "@type": "BreadcrumbList", "itemListElement": [{"@type": "ListItem", "position": 1, "name": "Ramo", "item": "https://ramotree.com/it/"}, {"@type": "ListItem", "position": 2, "name": "Albero genealogico per bambini", "item": "https://ramotree.com/it/albero-genealogico-per-bambini/"}]}]</script>
 </head>
 <body>
 <header class="arriba">
@@ -48,7 +48,7 @@
 <p class="entrada">«Domani bisogna portare l'albero genealogico.» Se ti suona familiare, ecco un modello gratis da stampare, idee per farlo bello e come farlo con tuo figlio senza ansia.</p>
 <p class="consejo">Si fa in un attimo: <a href="../../it/crea-albero-genealogico-online/">crea il vostro albero qui</a>, con i nomi e
 le foto di ognuno o con gli spazi per disegnare, e scaricalo da stampare.</p>
-<figure class="ancha"><img src="../../img/it/creador-colores.webp" width="1400" height="990" alt="Albero genealogico per bambini fatto con il creatore di Ramo, stile a colori" loading="lazy" decoding="async"><figcaption>Stile «A colori», con gli spazi per disegnare chi non ha la foto.</figcaption></figure>
+<figure class="ancha"><img src="../../img/it/creador-ninos.webp" width="1400" height="990" alt="Albero genealogico per bambini fatto con il creatore di Ramo, stile spazio" loading="lazy" decoding="async"><figcaption>Stile «Spazio», con gli spazi per disegnare chi non ha la foto.</figcaption></figure>
 
 <h2>Cosa chiede di solito la scuola</h2>
 <p>Alla scuola dell'infanzia e alla primaria di solito è un albero di tre generazioni: il bambino, i genitori e i nonni, con

diff --git a/de/stammbaum-fuer-kinder/index.html b/de/stammbaum-fuer-kinder/index.html
@@ -31,7 +31,7 @@
 <link rel="apple-touch-icon" href="../../img/icono-192.png">
 <link rel="preload" href="../../fuentes/titulos.woff2" as="font" type="font/woff2" crossorigin>
 <link rel="stylesheet" href="../../estilo.css?v=83f1b3a0">
-<script type="application/ld+json">[{"@context": "https://schema.org", "@type": "Article", "headline": "Stammbaum für Kinder: so klappt es für die Schule", "description": "So machst du mit deinem Kind den Stammbaum für die Schule: kostenlose Vorlage zum Ausdrucken, Ideen mit Fotos und Bildern und die Familie auf Englisch.", "inLanguage": "de", "datePublished": "2026-11-16", "dateModified": "2026-11-16", "image": "https://ramotree.com/img/de/creador-colores.webp", "author": {"@type": "Organization", "name": "Ramo", "url": "https://ramotree.com/de/"}, "publisher": {"@type": "Organization", "name": "Ramo", "logo": {"@type": "ImageObject", "url": "https://ramotree.com/img/icono-512.png"}}, "mainEntityOfPage": "https://ramotree.com/de/stammbaum-fuer-kinder/"}, {"@context": "https://schema.org", "@type": "BreadcrumbList", "itemListElement": [{"@type": "ListItem", "position": 1, "name": "Ramo", "item": "https://ramotree.com/de/"}, {"@type": "ListItem", "position": 2, "name": "Stammbaum für Kinder", "item": "https://ramotree.com/de/stammbaum-fuer-kinder/"}]}]</script>
+<script type="application/ld+json">[{"@context": "https://schema.org", "@type": "Article", "headline": "Stammbaum für Kinder: so klappt es für die Schule", "description": "So machst du mit deinem Kind den Stammbaum für die Schule: kostenlose Vorlage zum Ausdrucken, Ideen mit Fotos und Bildern und die Familie auf Englisch.", "inLanguage": "de", "datePublished": "2026-11-16", "dateModified": "2026-11-16", "image": "https://ramotree.com/img/de/creador-ninos.webp", "author": {"@type": "Organization", "name": "Ramo", "url": "https://ramotree.com/de/"}, "publisher": {"@type": "Organization", "name": "Ramo", "logo": {"@type": "ImageObject", "url": "https://ramotree.com/img/icono-512.png"}}, "mainEntityOfPage": "https://ramotree.com/de/stammbaum-fuer-kinder/"}, {"@context": "https://schema.org", "@type": "BreadcrumbList", "itemListElement": [{"@type": "ListItem", "position": 1, "name": "Ramo", "item": "https://ramotree.com/de/"}, {"@type": "ListItem", "position": 2, "name": "Stammbaum für Kinder", "item": "https://ramotree.com/de/stammbaum-fuer-kinder/"}]}]</script>
 </head>
 <body>
 <header class="arriba">
@@ -48,7 +48,7 @@
 <p class="entrada">„Morgen müssen wir den Stammbaum mitbringen.“ Kommt dir das bekannt vor? Hier gibt es eine kostenlose Vorlage zum Ausdrucken, Ideen, damit er schön wird, und wie du ihn ohne Stress mit deinem Kind machst.</p>
 <p class="consejo">In ein paar Minuten fertig: <a href="../../de/stammbaum-online-erstellen/">Erstellt euren Stammbaum hier</a>,
 mit Namen und Fotos oder mit Platz zum Malen, und ladet ihn zum Ausdrucken herunter.</p>
-<figure class="ancha"><img src="../../img/de/creador-colores.webp" width="1400" height="990" alt="Stammbaum für Kinder, erstellt mit dem Ersteller von Ramo, im bunten Stil" loading="lazy" decoding="async"><figcaption>Im Stil „Bunt“, mit Platz zum Malen für alle ohne Foto.</figcaption></figure>
+<figure class="ancha"><img src="../../img/de/creador-ninos.webp" width="1400" height="990" alt="Stammbaum für Kinder, erstellt mit dem Ersteller von Ramo, im Weltraum-Stil" loading="lazy" decoding="async"><figcaption>Im Stil „Weltraum“, mit Platz zum Malen für alle ohne Foto.</figcaption></figure>
 
 <h2>Was die Schule meistens verlangt</h2>
 <p>In Kita und Grundschule ist es meistens ein Stammbaum mit drei Generationen: das Kind, die Eltern und die Großeltern,

diff --git a/en/family-tree-for-kids/index.html b/en/family-tree-for-kids/index.html
@@ -31,7 +31,7 @@
 <link rel="apple-touch-icon" href="../../img/icono-192.png">
 <link rel="preload" href="../../fuentes/titulos.woff2" as="font" type="font/woff2" crossorigin>
 <link rel="stylesheet" href="../../estilo.css?v=83f1b3a0">
-<script type="application/ld+json">[{"@context": "https://schema.org", "@type": "Article", "headline": "Family tree for kids: how to do the school project", "description": "How to help your child with a family tree school project: a free printable template, ideas with photos and drawings, and what to do when families are different.", "inLanguage": "en", "datePublished": "2026-11-16", "dateModified": "2026-11-16", "image": "https://ramotree.com/img/en/creador-colores.webp", "author": {"@type": "Organization", "name": "Ramo", "url": "https://ramotree.com/en/"}, "publisher": {"@type": "Organization", "name": "Ramo", "logo": {"@type": "ImageObject", "url": "https://ramotree.com/img/icono-512.png"}}, "mainEntityOfPage": "https://ramotree.com/en/family-tree-for-kids/"}, {"@context": "https://schema.org", "@type": "BreadcrumbList", "itemListElement": [{"@type": "ListItem", "position": 1, "name": "Ramo", "item": "https://ramotree.com/en/"}, {"@type": "ListItem", "position": 2, "name": "Family tree for kids", "item": "https://ramotree.com/en/family-tree-for-kids/"}]}]</script>
+<script type="application/ld+json">[{"@context": "https://schema.org", "@type": "Article", "headline": "Family tree for kids: how to do the school project", "description": "How to help your child with a family tree school project: a free printable template, ideas with photos and drawings, and what to do when families are different.", "inLanguage": "en", "datePublished": "2026-11-16", "dateModified": "2026-11-16", "image": "https://ramotree.com/img/en/creador-ninos.webp", "author": {"@type": "Organization", "name": "Ramo", "url": "https://ramotree.com/en/"}, "publisher": {"@type": "Organization", "name": "Ramo", "logo": {"@type": "ImageObject", "url": "https://ramotree.com/img/icono-512.png"}}, "mainEntityOfPage": "https://ramotree.com/en/family-tree-for-kids/"}, {"@context": "https://schema.org", "@type": "BreadcrumbList", "itemListElement": [{"@type": "ListItem", "position": 1, "name": "Ramo", "item": "https://ramotree.com/en/"}, {"@type": "ListItem", "position": 2, "name": "Family tree for kids", "item": "https://ramotree.com/en/family-tree-for-kids/"}]}]</script>
 </head>
 <body>
 <header class="arriba">
@@ -48,7 +48,7 @@
 <p class="entrada">“We have to bring a family tree tomorrow.” If that sounds familiar, here is a free template to print, ideas to make it look great, and how to do it with your child without the stress.</p>
 <p class="consejo">Do it in minutes: <a href="../../en/family-tree-maker/">make your tree here</a>, with everyone's
 names and photos or with spaces to draw, and download it to print.</p>
-<figure class="ancha"><img src="../../img/en/creador-colores.webp" width="1400" height="990" alt="Family tree for kids made with Ramo&#x27;s family tree maker, in the colorful style" loading="lazy" decoding="async"><figcaption>In the “Colorful” style, with spaces to draw anyone without a photo.</figcaption></figure>
+<figure class="ancha"><img src="../../img/en/creador-ninos.webp" width="1400" height="990" alt="Family tree for kids made with Ramo&#x27;s family tree maker, in the space style" loading="lazy" decoding="async"><figcaption>In the “Space” style, with spaces to draw anyone without a photo.</figcaption></figure>
 
 <h2>What schools usually ask for</h2>
 <p>For younger children it's usually a three-generation tree: the child, their parents and their grandparents, with a photo
